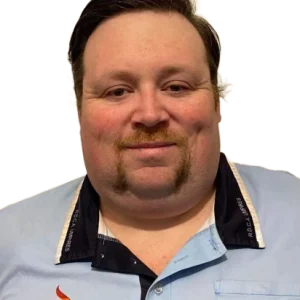
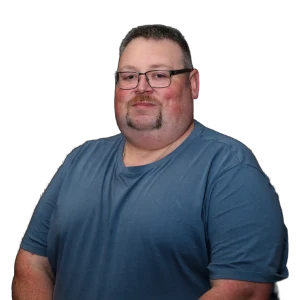
Committee headshots: add Wayne Hartley, swap Jordan Russell to blue-shirt cutout
- Wayne Hartley: new transparent navy-background headshot
  (/images/committee/wayne-hartley.webp), wired into all three of his
  board/committee cards (top board, Senior Committee, Women's Committee) —
  he was the only Senior Committee member without a photo.
- Jordan Russell: replace dark-polo headshot with the supplied blue-shirt
  photo, same path so no data change.
- Both cut out to transparent via the AI background remover so the .board-av
  navy gradient shows through, framed head-and-shoulders at 300x300 to match
  the existing committee portraits.
- Bump service-worker cache rdca-v224 -> rdca-v225.

diff --git a/site-data.js b/site-data.js
@@ -327,6 +327,7 @@ window.RDCA_DATA = {
         "name": "Wayne Hartley",
         "phone": "0411 403 149",
         "email": "hartleyfam@bigpond.com",
+        "photo": "/images/committee/wayne-hartley.webp",
         "real": true
       },
       {
@@ -2896,7 +2897,8 @@ window.RDCA_DATA = {
             "role": "Senior Chairman",
             "name": "Wayne Hartley",
             "phone": "0411 403 149",
-            "email": "hartleyfam@bigpond.com"
+            "email": "hartleyfam@bigpond.com",
+            "photo": "/images/committee/wayne-hartley.webp"
           },
           {
             "role": "General Committee",
@@ -3040,7 +3042,8 @@ window.RDCA_DATA = {
             "role": "Senior Chairman / Acting Chair",
             "name": "Wayne Hartley",
             "phone": "0411 403 149",
-            "email": "hartleyfam@bigpond.com"
+            "email": "hartleyfam@bigpond.com",
+            "photo": "/images/committee/wayne-hartley.webp"
           },
           {
             "role": "Umpire Coordinator",

diff --git a/sw.js b/sw.js
@@ -2,7 +2,7 @@
    Strategy: network-first for page navigations AND app code (css/js/json) so a new deploy
    shows up on the next load instead of being masked by stale, same-named cached assets.
    Cache-first only for heavy static binaries (images/icons/fonts). Offline falls back to cache. */
-var CACHE = "rdca-v224";
+var CACHE = "rdca-v225";
 var CORE = [
   "/", "/index.html",
   "/_shared.css", "/_pages.css",
